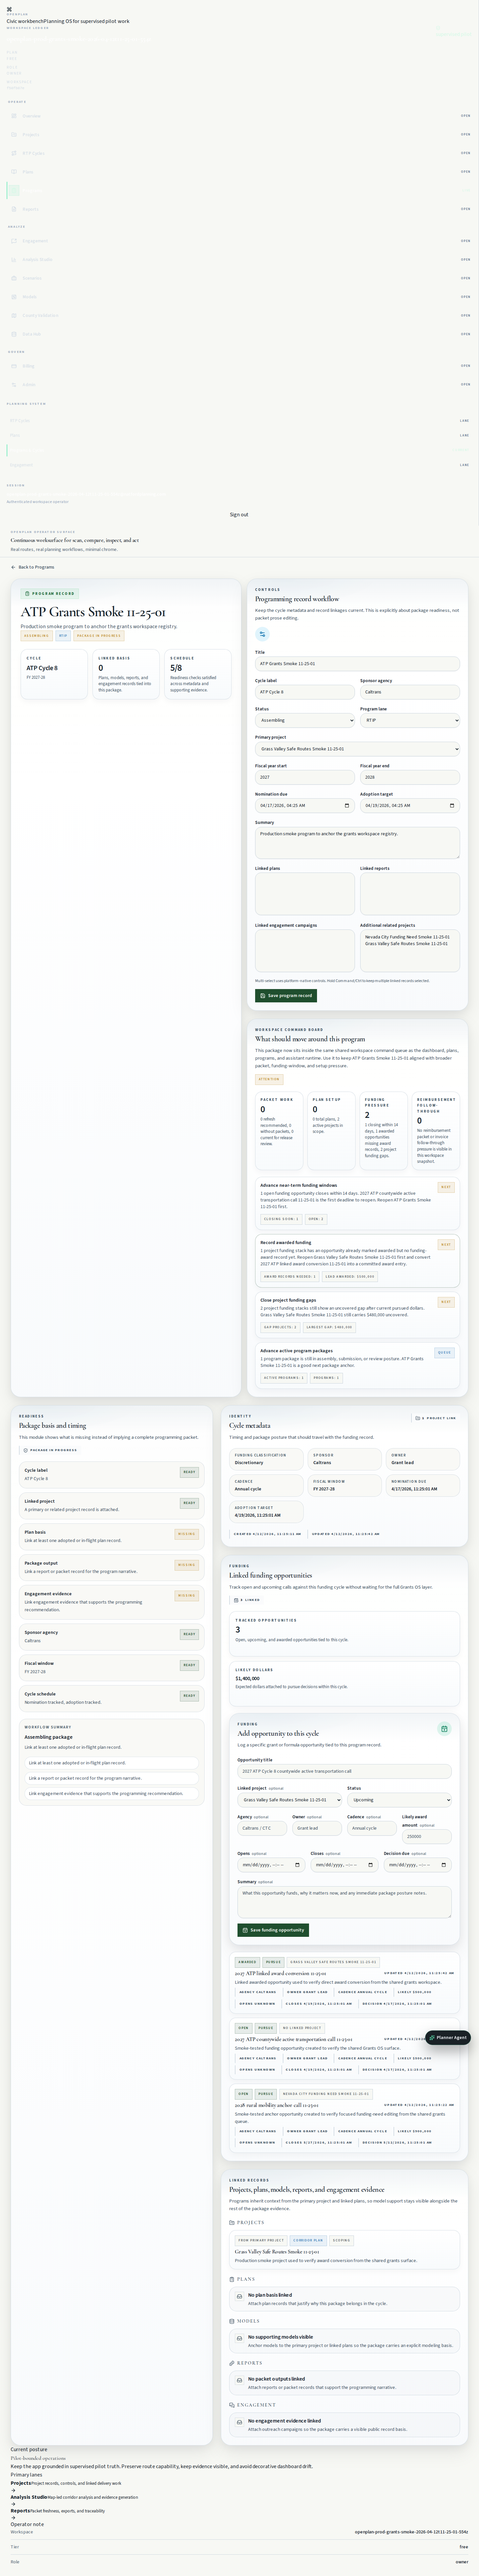
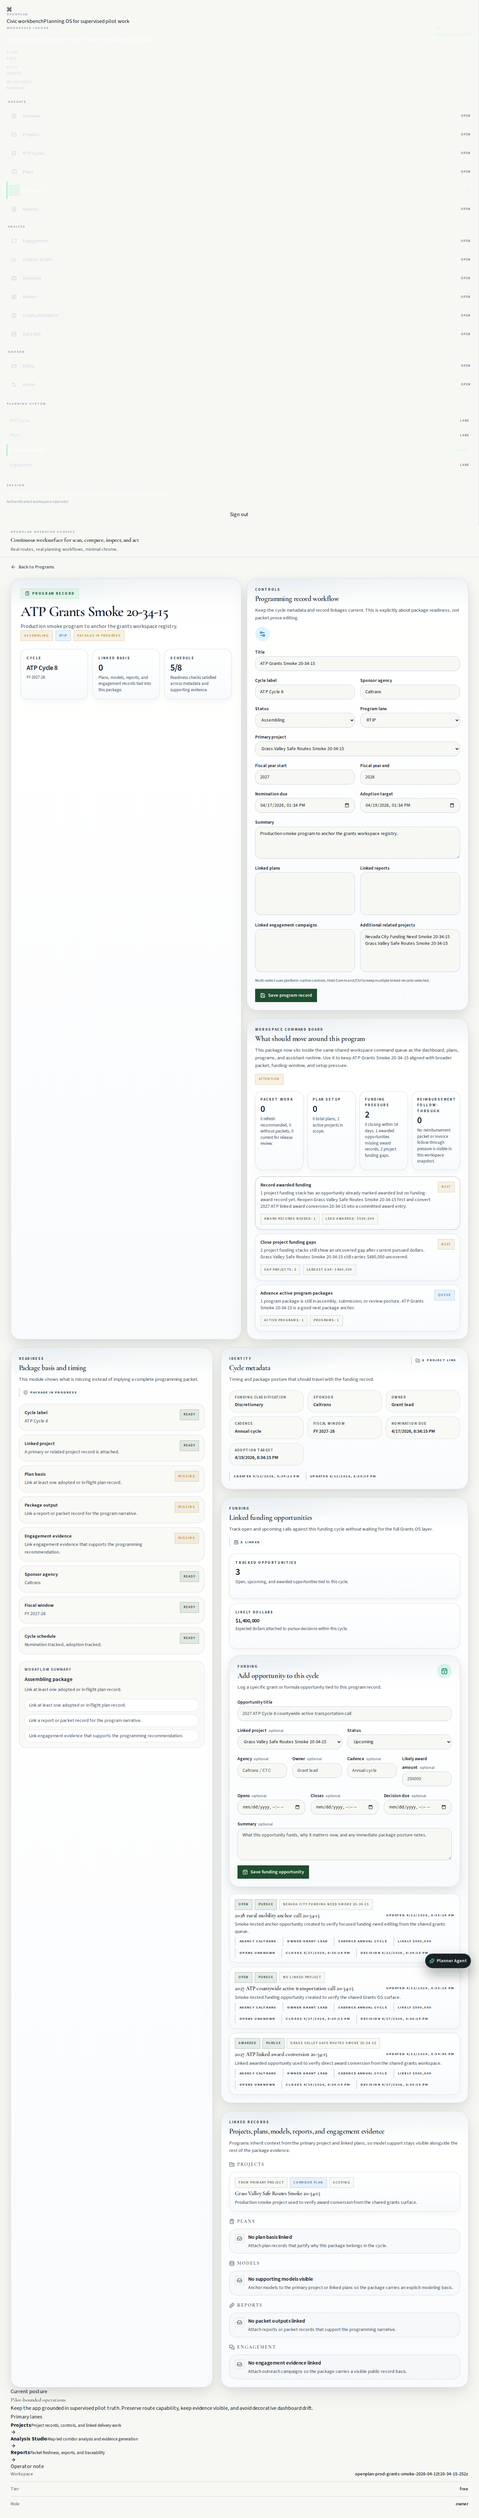
test: prove billing returns to grants triage

diff --git a/qa-harness/openplan-prod-grants-registry-smoke.js b/qa-harness/openplan-prod-grants-registry-smoke.js
@@ -557,6 +557,17 @@ async function main() {
 
     await screenshot('prod-grants-registry-03-reimbursement-creation');
 
+    for (const opportunityId of [ids.primaryOpportunityId, ids.anchorOpportunityId]) {
+      const reopenWindowResult = await appFetch(
+        `/api/funding-opportunities/${opportunityId}`,
+        { closesAt: isoDaysFromNow(45) },
+        'PATCH'
+      );
+      if (!reopenWindowResult.ok) {
+        throw new Error(`Failed to move funding opportunity ${opportunityId} out of closing-window pressure before billing priority proof: ${JSON.stringify(reopenWindowResult.data)}`);
+      }
+    }
+
     const triageLink = relinkedRow.getByRole('link', { name: /Open billing triage/i }).first();
     await triageLink.waitFor({ timeout: 30000 });
     await Promise.all([
@@ -566,6 +577,17 @@ async function main() {
     await page.waitForLoadState('networkidle');
     await page.getByText(/Focused from triage/i).waitFor({ timeout: 30000 });
     notes.push('The grants reimbursement queue now lands on the exact billing triage row instead of a generic project billing anchor.');
+
+    const billingPriorityLink = page.getByRole('link', { name: /Open lead project lane/i }).first();
+    const billingPriorityHref = await billingPriorityLink.getAttribute('href');
+    const billingReturnsToGrantsTriage =
+      Boolean(billingPriorityHref) &&
+      billingPriorityHref.startsWith('/grants') &&
+      billingPriorityHref.includes('grants-reimbursement-triage');
+    if (!billingReturnsToGrantsTriage) {
+      throw new Error(`Billing reimbursement priority link did not return to the grants reimbursement triage lane. Received ${billingPriorityHref || 'empty'}.`);
+    }
+    notes.push('The billing workspace-priority link now returns operators to the grants reimbursement triage lane instead of a broad project invoice page.');
 
     await screenshot('prod-grants-registry-04-project-billing-register');
 

diff --git a/docs/ops/2026-04-12-openplan-production-grants-registry-smoke.md b/docs/ops/2026-04-12-openplan-production-grants-registry-smoke.md
@@ -1,21 +1,21 @@
 # OpenPlan Production Grants Registry Smoke — 2026-04-12
 
 - Base URL: https://openplan-natford.vercel.app
-- QA user email: openplan-prod-grants-smoke-2026-04-12T11-25-01-554Z@natfordplanning.com
+- QA user email: openplan-prod-grants-smoke-2026-04-12T20-34-15-252Z@natfordplanning.com
 - QA user id: unknown
-- Workspace id: f58fb87e-5219-4d15-b03f-53a9f88d16b7
-- Bootstrapped workspace id: a9dfc12b-8add-4688-9acf-8e64d2a39417
-- Project id: e20e4764-e703-44de-aff2-3e3d24f1f1f0
-- Program id: bde0bdc0-8b38-4ff4-9300-1bb06fad569a
-- Opportunity id: 61e6747f-47ba-4e01-a1cb-cb0e54d96875
+- Workspace id: ba8d8a35-94ae-4d21-92a1-b1b9d9ac155c
+- Bootstrapped workspace id: bce9578e-666b-4d6f-b0fe-e65e3cfd9ab8
+- Project id: 79a52b9f-9605-40a4-b2e1-8b1c91efd386
+- Program id: 0ccabdcc-989a-4fa1-8b76-d51eec78401f
+- Opportunity id: 333352f0-da53-47f9-bc10-4d43108f0fca
 
 ## Pass/Fail Notes
-- PASS: Created QA auth user openplan-prod-grants-smoke-2026-04-12T11-25-01-554Z@natfordplanning.com.
+- PASS: Created QA auth user openplan-prod-grants-smoke-2026-04-12T20-34-15-252Z@natfordplanning.com.
 - PASS: Signed into production successfully.
-- PASS: Bootstrapped workspace OpenPlan Prod Grants Smoke 11-25-01.
-- PASS: Current workspace resolved to f58fb87e-5219-4d15-b03f-53a9f88d16b7 instead of the freshly bootstrapped workspace a9dfc12b-8add-4688-9acf-8e64d2a39417; smoke data was aligned to the active workspace selection.
-- PASS: Seeded linked project Grass Valley Safe Routes Smoke 11-25-01 inside the smoke workspace and anchored its funding profile for downstream reimbursement commands.
-- PASS: Created production program ATP Grants Smoke 11-25-01.
+- PASS: Bootstrapped workspace OpenPlan Prod Grants Smoke 20-34-15.
+- PASS: Current workspace resolved to ba8d8a35-94ae-4d21-92a1-b1b9d9ac155c instead of the freshly bootstrapped workspace bce9578e-666b-4d6f-b0fe-e65e3cfd9ab8; smoke data was aligned to the active workspace selection.
+- PASS: Seeded linked project Grass Valley Safe Routes Smoke 20-34-15 inside the smoke workspace and anchored its funding profile for downstream reimbursement commands.
+- PASS: Created production program ATP Grants Smoke 20-34-15.
 - PASS: Grants registry rendered its empty state before the first opportunity was created.
 - PASS: The grants workspace command queue now retargets missing funding-need anchors to an exact inline editor on `/grants`.
 - PASS: The grants workspace command queue now retargets active funding-gap commands to a project-focused sourcing lane on `/grants`.
@@ -36,6 +36,7 @@
 - PASS: The grants workspace command queue also surfaces the exact billing triage row for an invoice that needs award relink.
 - PASS: Repaired an exact award relink directly from the shared grants queue without leaving `/grants`, and the queue now confirms the saved relink state inline.
 - PASS: The grants reimbursement queue now lands on the exact billing triage row instead of a generic project billing anchor.
+- PASS: The billing workspace-priority link now returns operators to the grants reimbursement triage lane instead of a broad project invoice page.
 - PASS: The grants registry linked back into the canonical program funding lane.
 
 ## Artifacts

diff --git a/docs/ops/2026-04-12-openplan-production-qa-cleanup.md b/docs/ops/2026-04-12-openplan-production-qa-cleanup.md
@@ -1,6 +1,6 @@
 # OpenPlan Production QA Cleanup — 2026-04-12
 
-- Started: 2026-04-12T11:26:28.663Z
+- Started: 2026-04-12T20:35:39.706Z
 - Mode: apply
 - Env path: /home/narford/.openclaw/workspace/openplan/openplan/.env.local
 - Created-after filter: 2026-04-12
@@ -8,32 +8,40 @@
 
 ## Scope
 - Targeted QA/debug/proof/trace/canary production records created on or after 2026-04-12.
-- Targeted workspaces: 2
+- Targeted workspaces: 10
 - Targeted county runs: 0
-- Targeted auth users: 1
+- Targeted auth users: 5
 
 ## Stripe checkout sessions
 - No Stripe checkout sessions found for targeted workspaces.
 
 ## Delete plan
-- programs: planned=1
-- billing_events: planned=2
-- projects: planned=2
-- workspace_members: planned=2
-- workspaces: planned=2
+- programs: planned=5
+- billing_events: planned=10
+- projects: planned=10
+- workspace_members: planned=10
+- workspaces: planned=10
 
 ## Auth plan
-- openplan-prod-grants-smoke-2026-04-12t11-25-01-554z@natfordplanning.com
+- openplan-prod-grants-smoke-2026-04-12t20-34-15-252z@natfordplanning.com
+- openplan-prod-grants-smoke-2026-04-12t20-32-40-542z@natfordplanning.com
+- openplan-prod-grants-smoke-2026-04-12t20-30-49-872z@natfordplanning.com
+- openplan-prod-grants-smoke-2026-04-12t20-27-59-255z@natfordplanning.com
+- openplan-prod-grants-smoke-2026-04-12t11-27-49-615z@natfordplanning.com
 
 ## Delete results
-- programs: status=200 ok=true planned=1 deleted=1
-- billing_events: status=200 ok=true planned=2 deleted=0
-- projects: status=200 ok=true planned=2 deleted=2
-- workspace_members: status=200 ok=true planned=2 deleted=2
-- workspaces: status=200 ok=true planned=2 deleted=2
+- programs: status=200 ok=true planned=5 deleted=5
+- billing_events: status=200 ok=true planned=10 deleted=0
+- projects: status=200 ok=true planned=10 deleted=10
+- workspace_members: status=200 ok=true planned=10 deleted=10
+- workspaces: status=200 ok=true planned=10 deleted=10
 
 ## Auth deletes
-- openplan-prod-grants-smoke-2026-04-12t11-25-01-554z@natfordplanning.com: status=200 ok=true
+- openplan-prod-grants-smoke-2026-04-12t20-34-15-252z@natfordplanning.com: status=200 ok=true
+- openplan-prod-grants-smoke-2026-04-12t20-32-40-542z@natfordplanning.com: status=200 ok=true
+- openplan-prod-grants-smoke-2026-04-12t20-30-49-872z@natfordplanning.com: status=200 ok=true
+- openplan-prod-grants-smoke-2026-04-12t20-27-59-255z@natfordplanning.com: status=200 ok=true
+- openplan-prod-grants-smoke-2026-04-12t11-27-49-615z@natfordplanning.com: status=200 ok=true
 
 ## Verification
 - Remaining matching workspaces: 0
